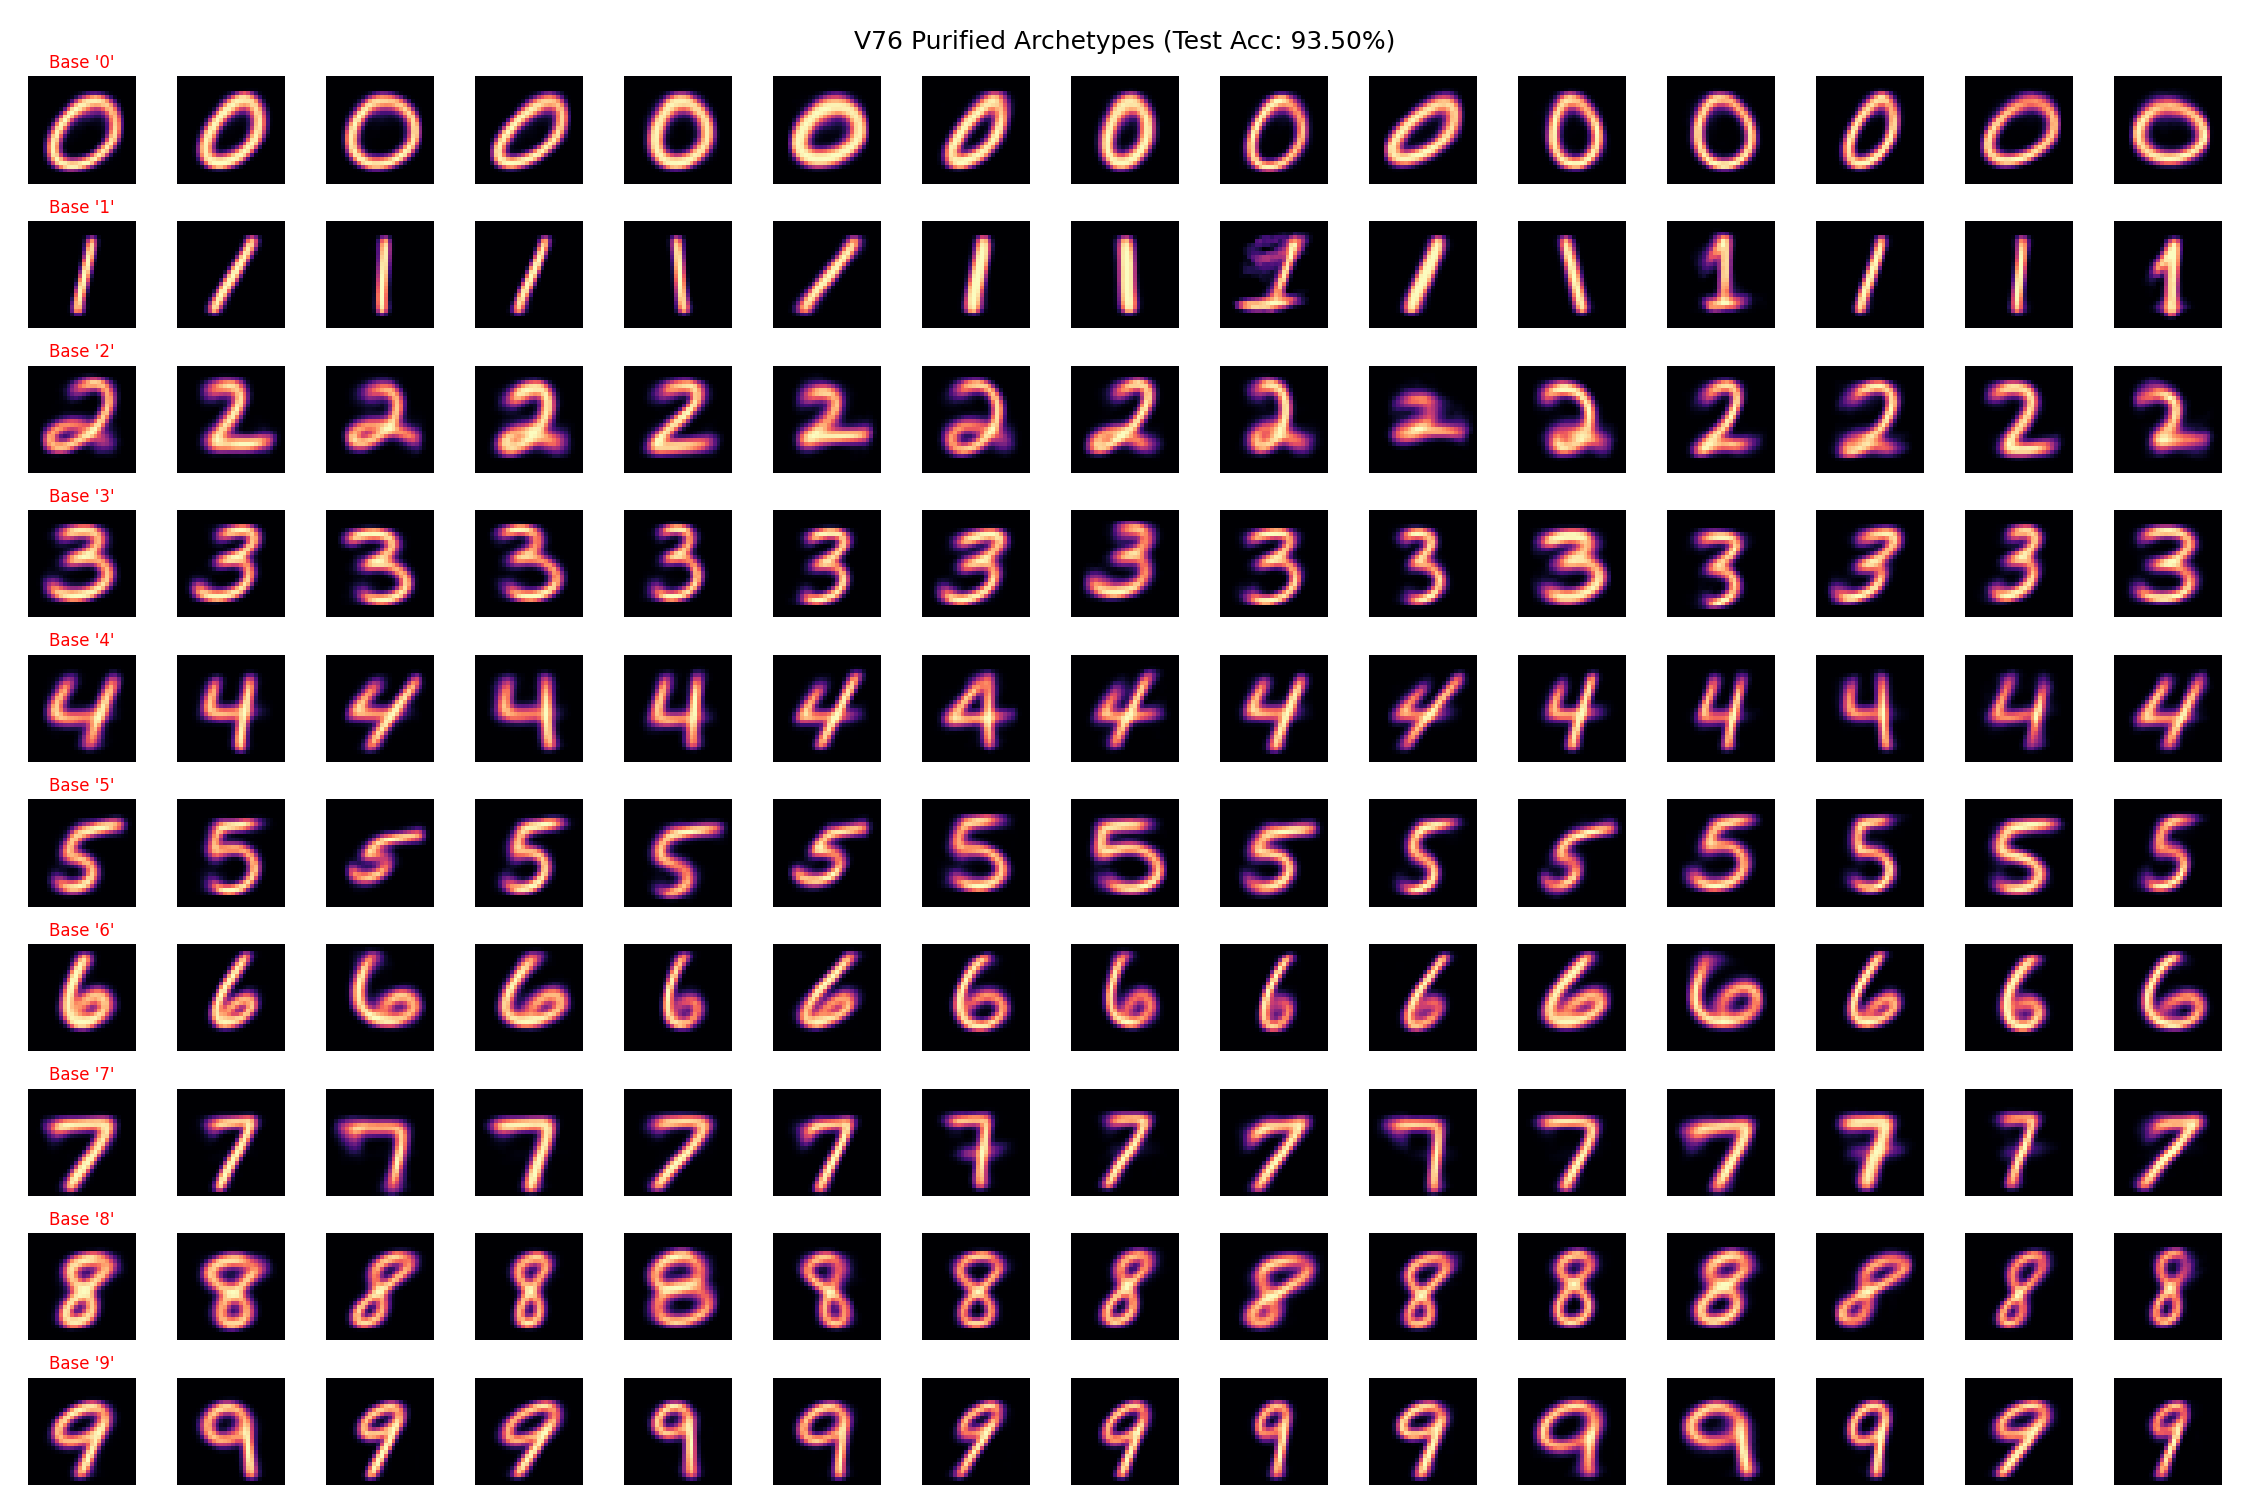
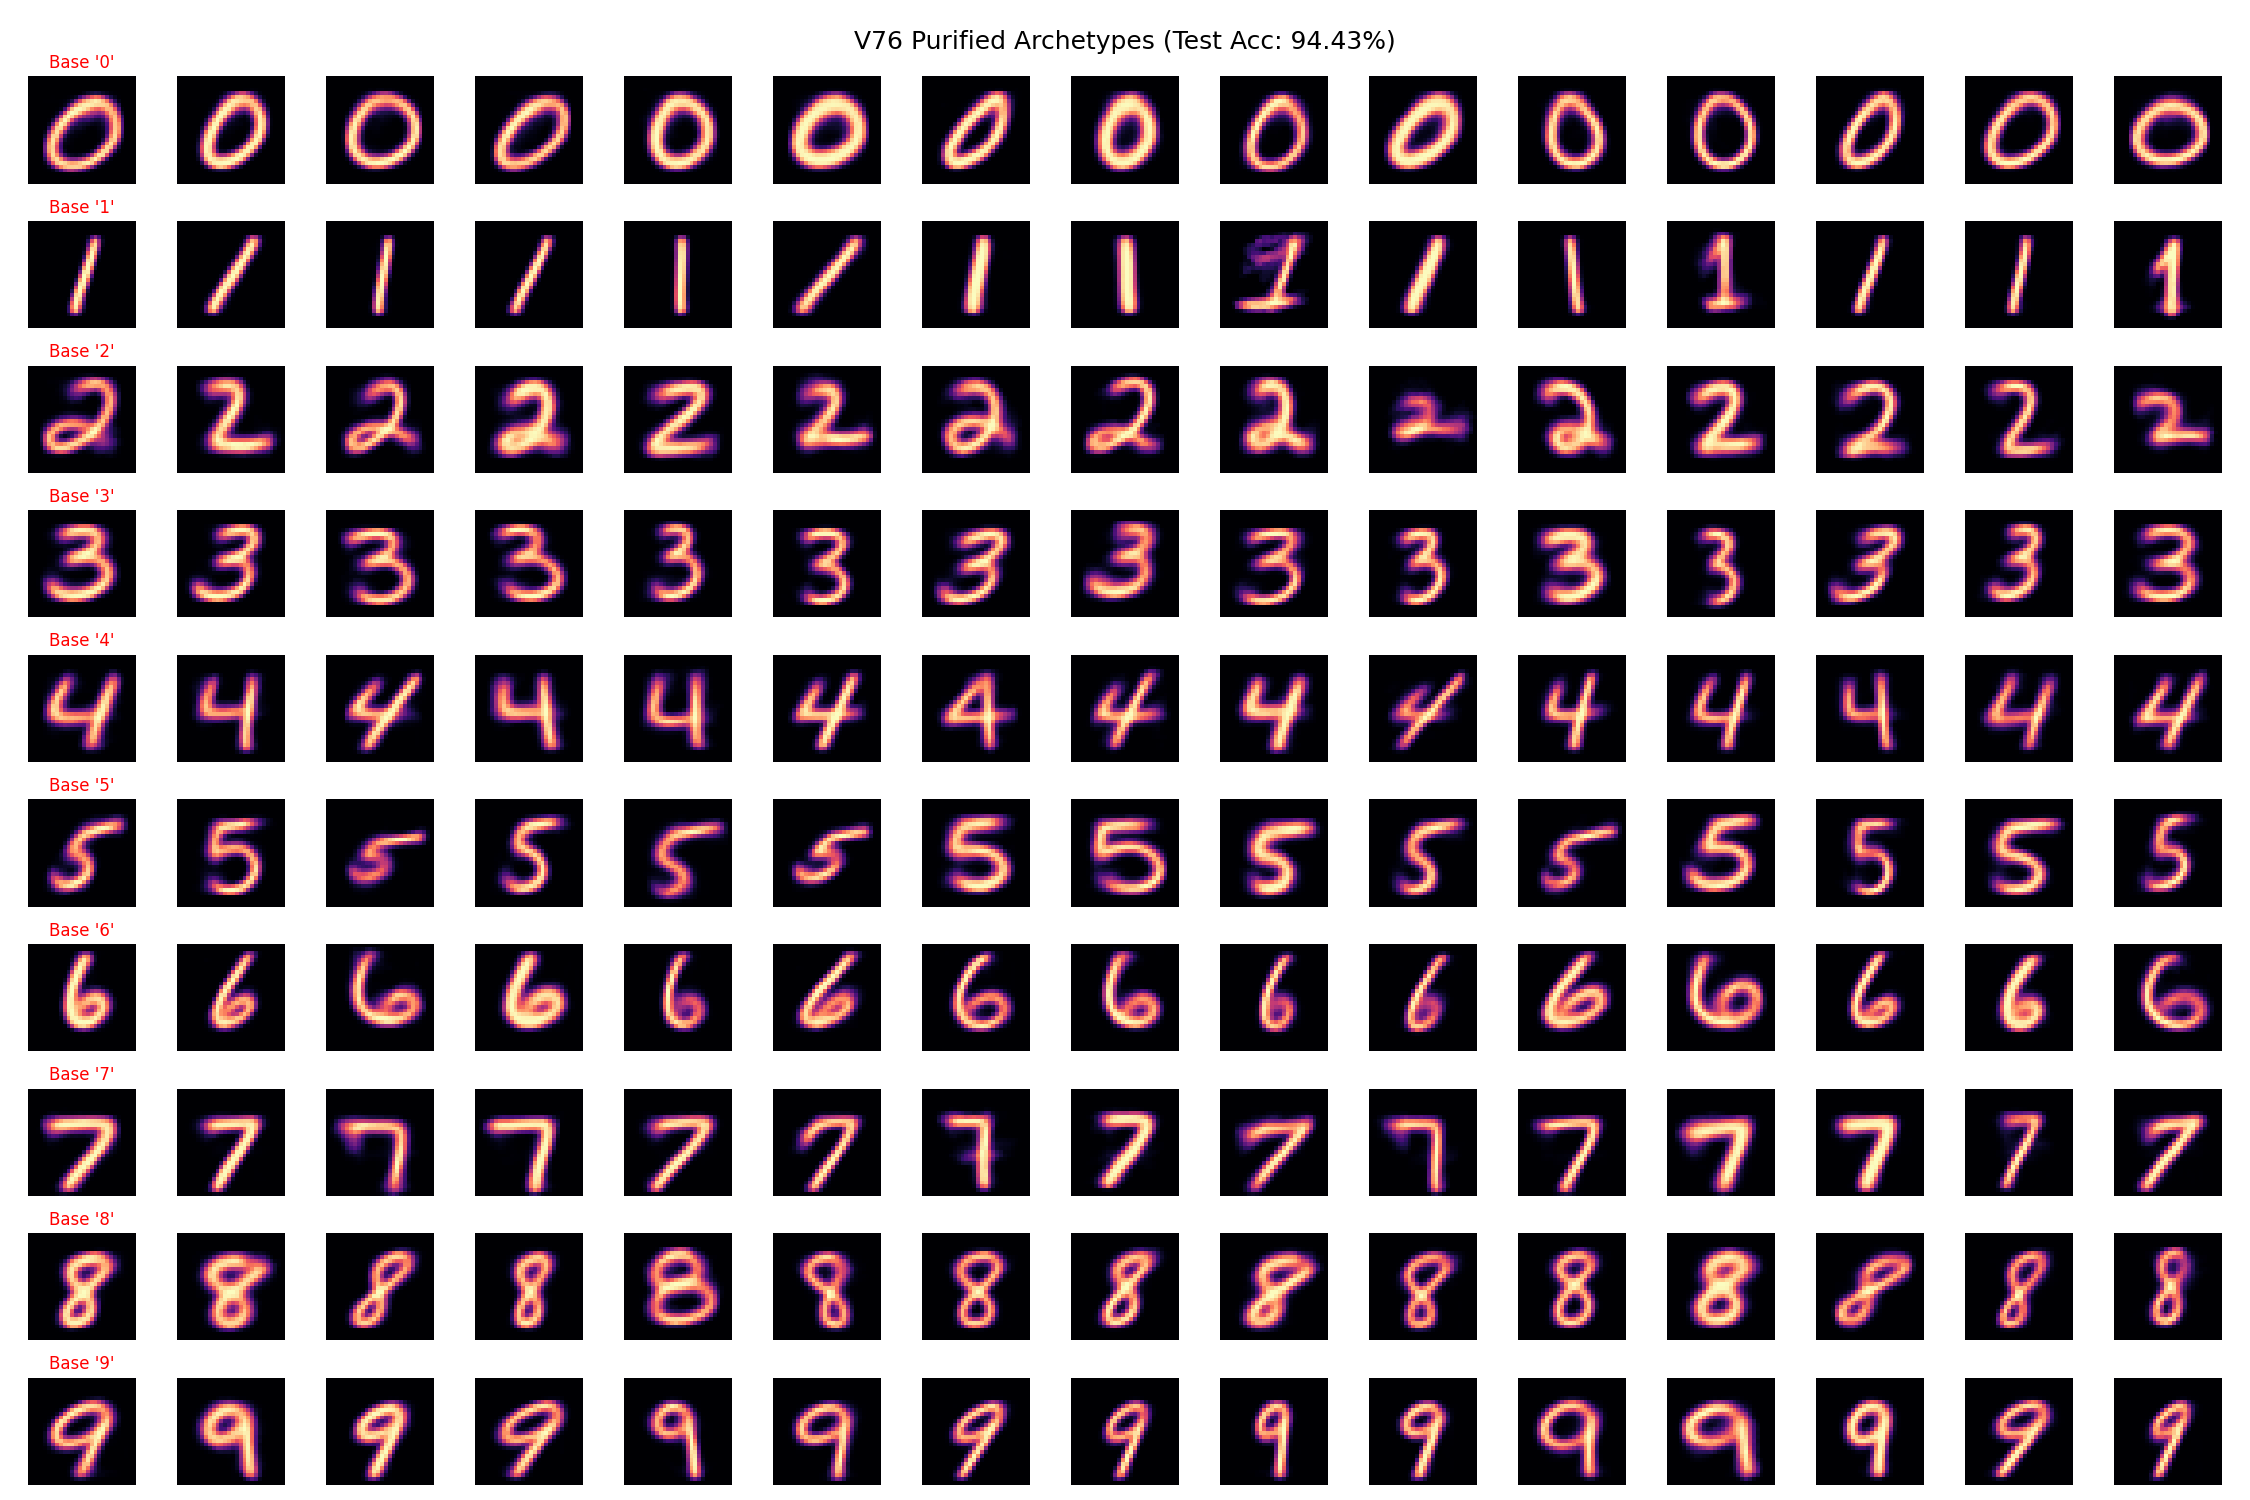
feat(experiments): V77 PAC with Cosine Similarity, 200 iterations, 95.34% accuracy

diff --git a/scratch/prototype_v76_refined_archetypes.py b/scratch/prototype_v76_refined_archetypes.py
@@ -29,7 +29,7 @@ def train_refined_archetypes():
     next_cluster_id = 10
     cluster_to_label = {d: d for d in range(10)}
     
-    MAX_ITER = 30
+    MAX_ITER = 500
     
     print("\nStarting purification process...")
     for iteration in range(MAX_ITER):

diff --git a/docs/ALGORITHM_PAC.md b/docs/ALGORITHM_PAC.md
@@ -38,3 +38,9 @@ To classify a new unseen image, simply calculate the distance (MSE or Euclidean)
 
 ## Why it Works
 PAC organically maps the complex, non-linear topology of a dataset by carving out "spheres of influence" around dense, homogenous regions. It is highly interpretable because every centroid is a visual, human-readable archetype, and it is highly efficient because it avoids the gradient vanishing/exploding problems of deep neural networks.
+
+## PAC as a Dataset Curation Tool (Outlier Detection)
+A profound emergent property of PAC is its inherent resistance to overfitting unstructured noise. 
+If PAC stalls at ~95% training accuracy, it signifies that the remaining 5% of errors are mathematically incoherent (e.g., random scribbles, mislabeled data, or severe artifacts). Because PAC averages errors to form new archetypes, incoherent errors average out into "blurry blobs" that fail to attract any images, and are thus automatically discarded by the algorithm. 
+
+This makes PAC an exceptional tool for **Dataset Auditing**. By extracting the pool of images that PAC repeatedly fails to classify in late generations, we can surface the exact data points that are likely mislabeled or too noisy, allowing human reviewers to clean the dataset. Reaching 100% accuracy on a raw dataset is often a sign of pure memorization; PAC stops exactly where generalization ends and noise begins.
